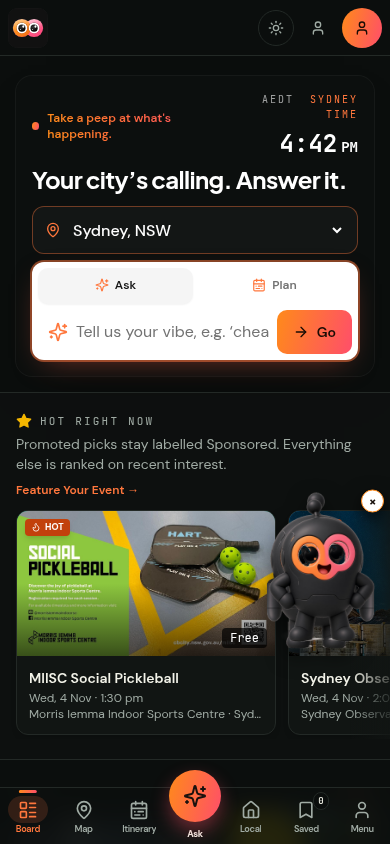
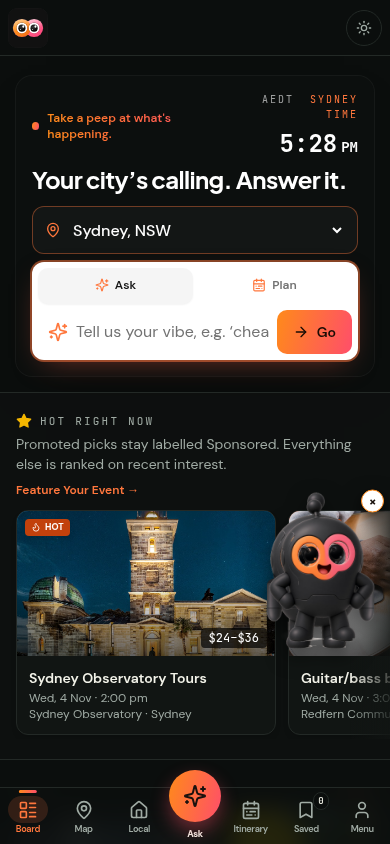
Seat the Menu sheet on the bar and reorder the tabs (#80)
* Close the Menu sheet onto the bar and drop the header account button.

The sheet now covers the bottom bar, including the safe area, so event cards no longer show through a gap. On phones the header keeps the logo and theme toggle. The tab order is Board, Map, Local, Ask, Itinerary, Saved, Menu.

* Update 390px shots for the flush Menu sheet.

Homepage shows Local before Itinerary, and the open Menu sheet meets the bottom of the screen.

---------

diff --git a/components/navbar.tsx b/components/navbar.tsx
@@ -99,7 +99,7 @@ export function Navbar({ savedCount }: NavbarProps) {
           {mounted && status !== 'loading' && (user ? (
             <DropdownMenu>
               <DropdownMenuTrigger asChild>
-                <button className="w-10 h-10 rounded-full bg-primary text-primary-foreground font-display font-bold text-sm flex items-center justify-center hover:opacity-90" aria-label="Account menu">
+                <button className="vp-header-account w-10 h-10 rounded-full bg-primary text-primary-foreground font-display font-bold text-sm flex items-center justify-center hover:opacity-90" aria-label="Account menu">
                   {(user.name || user.email || '?').charAt(0).toUpperCase()}
                 </button>
               </DropdownMenuTrigger>
@@ -127,14 +127,14 @@ export function Navbar({ savedCount }: NavbarProps) {
               </DropdownMenuContent>
             </DropdownMenu>
           ) : (
-            <>
+            <div className="vp-header-account contents">
               <Link href="/promoters" className="hidden lg:inline-flex h-10 items-center gap-1.5 px-3 text-sm text-muted-foreground hover:text-foreground"><Megaphone className="w-4 h-4" />For promoters</Link>
               <Link href="/login" className="inline-flex md:hidden h-10 w-10 items-center justify-center rounded-full text-muted-foreground hover:text-foreground" aria-label="Sign in"><User className="w-4 h-4" /></Link>
               <Link href="/login" className="hidden md:inline-flex h-10 items-center px-3 text-sm text-muted-foreground hover:text-foreground">Sign In</Link>
               <Link href="/signup" aria-label="Sign up" className="inline-flex h-10 w-10 sm:w-auto shrink-0 items-center justify-center gap-1.5 sm:px-4 rounded-full bg-primary text-primary-foreground text-sm font-semibold hover:opacity-90">
                 <User className="w-4 h-4" /><span className="hidden sm:inline">Sign Up</span>
               </Link>
-            </>
+            </div>
           ))}
         </div>
       </div>

diff --git a/components/bottom-nav.css b/components/bottom-nav.css
@@ -55,7 +55,8 @@
     transition: transform 220ms ease;
   }
 
-  .vp-top-links {
+  .vp-top-links,
+  .vp-header-account {
     display: none !important;
   }
 
@@ -289,6 +290,14 @@
   padding-bottom: 1.25rem;
 }
 
+/* Cover the bar. Sitting above --vp-bottom-nav-offset left a strip beside the raised Ask button. */
+.vp-menu-sheet {
+  bottom: 0 !important;
+  padding-bottom: calc(1.25rem + env(safe-area-inset-bottom, 0px));
+  border-bottom-left-radius: 0;
+  border-bottom-right-radius: 0;
+}
+
 @keyframes vp-tab-pop {
   0% { transform: translateX(-50%) scale(1); }
   40% { transform: translateX(-50%) scale(0.82); }
@@ -473,7 +482,8 @@ html[data-vp-fold='side'] body {
   padding-bottom: var(--vp-bottom-nav-offset);
 }
 
-html[data-vp-fold='side'] .vp-top-links {
+html[data-vp-fold='side'] .vp-top-links,
+html[data-vp-fold='side'] .vp-header-account {
   display: none !important;
 }
 

diff --git a/components/bottom-nav.tsx b/components/bottom-nav.tsx
@@ -13,11 +13,11 @@ import './bottom-nav.css'
 const LEFT = [
   { key: 'board', label: 'Board', href: '/', Icon: LayoutList },
   { key: 'map', label: 'Map', href: '/map', Icon: MapPin },
-  { key: 'itinerary', label: 'Itinerary', href: '/itinerary', Icon: CalendarRange },
+  { key: 'local', label: 'Local', href: '/local', Icon: House },
 ] as const
 
 const RIGHT = [
-  { key: 'local', label: 'Local', href: '/local', Icon: House },
+  { key: 'itinerary', label: 'Itinerary', href: '/itinerary', Icon: CalendarRange },
   { key: 'saved', label: 'Saved', href: '/saved', Icon: Bookmark },
 ] as const
 
